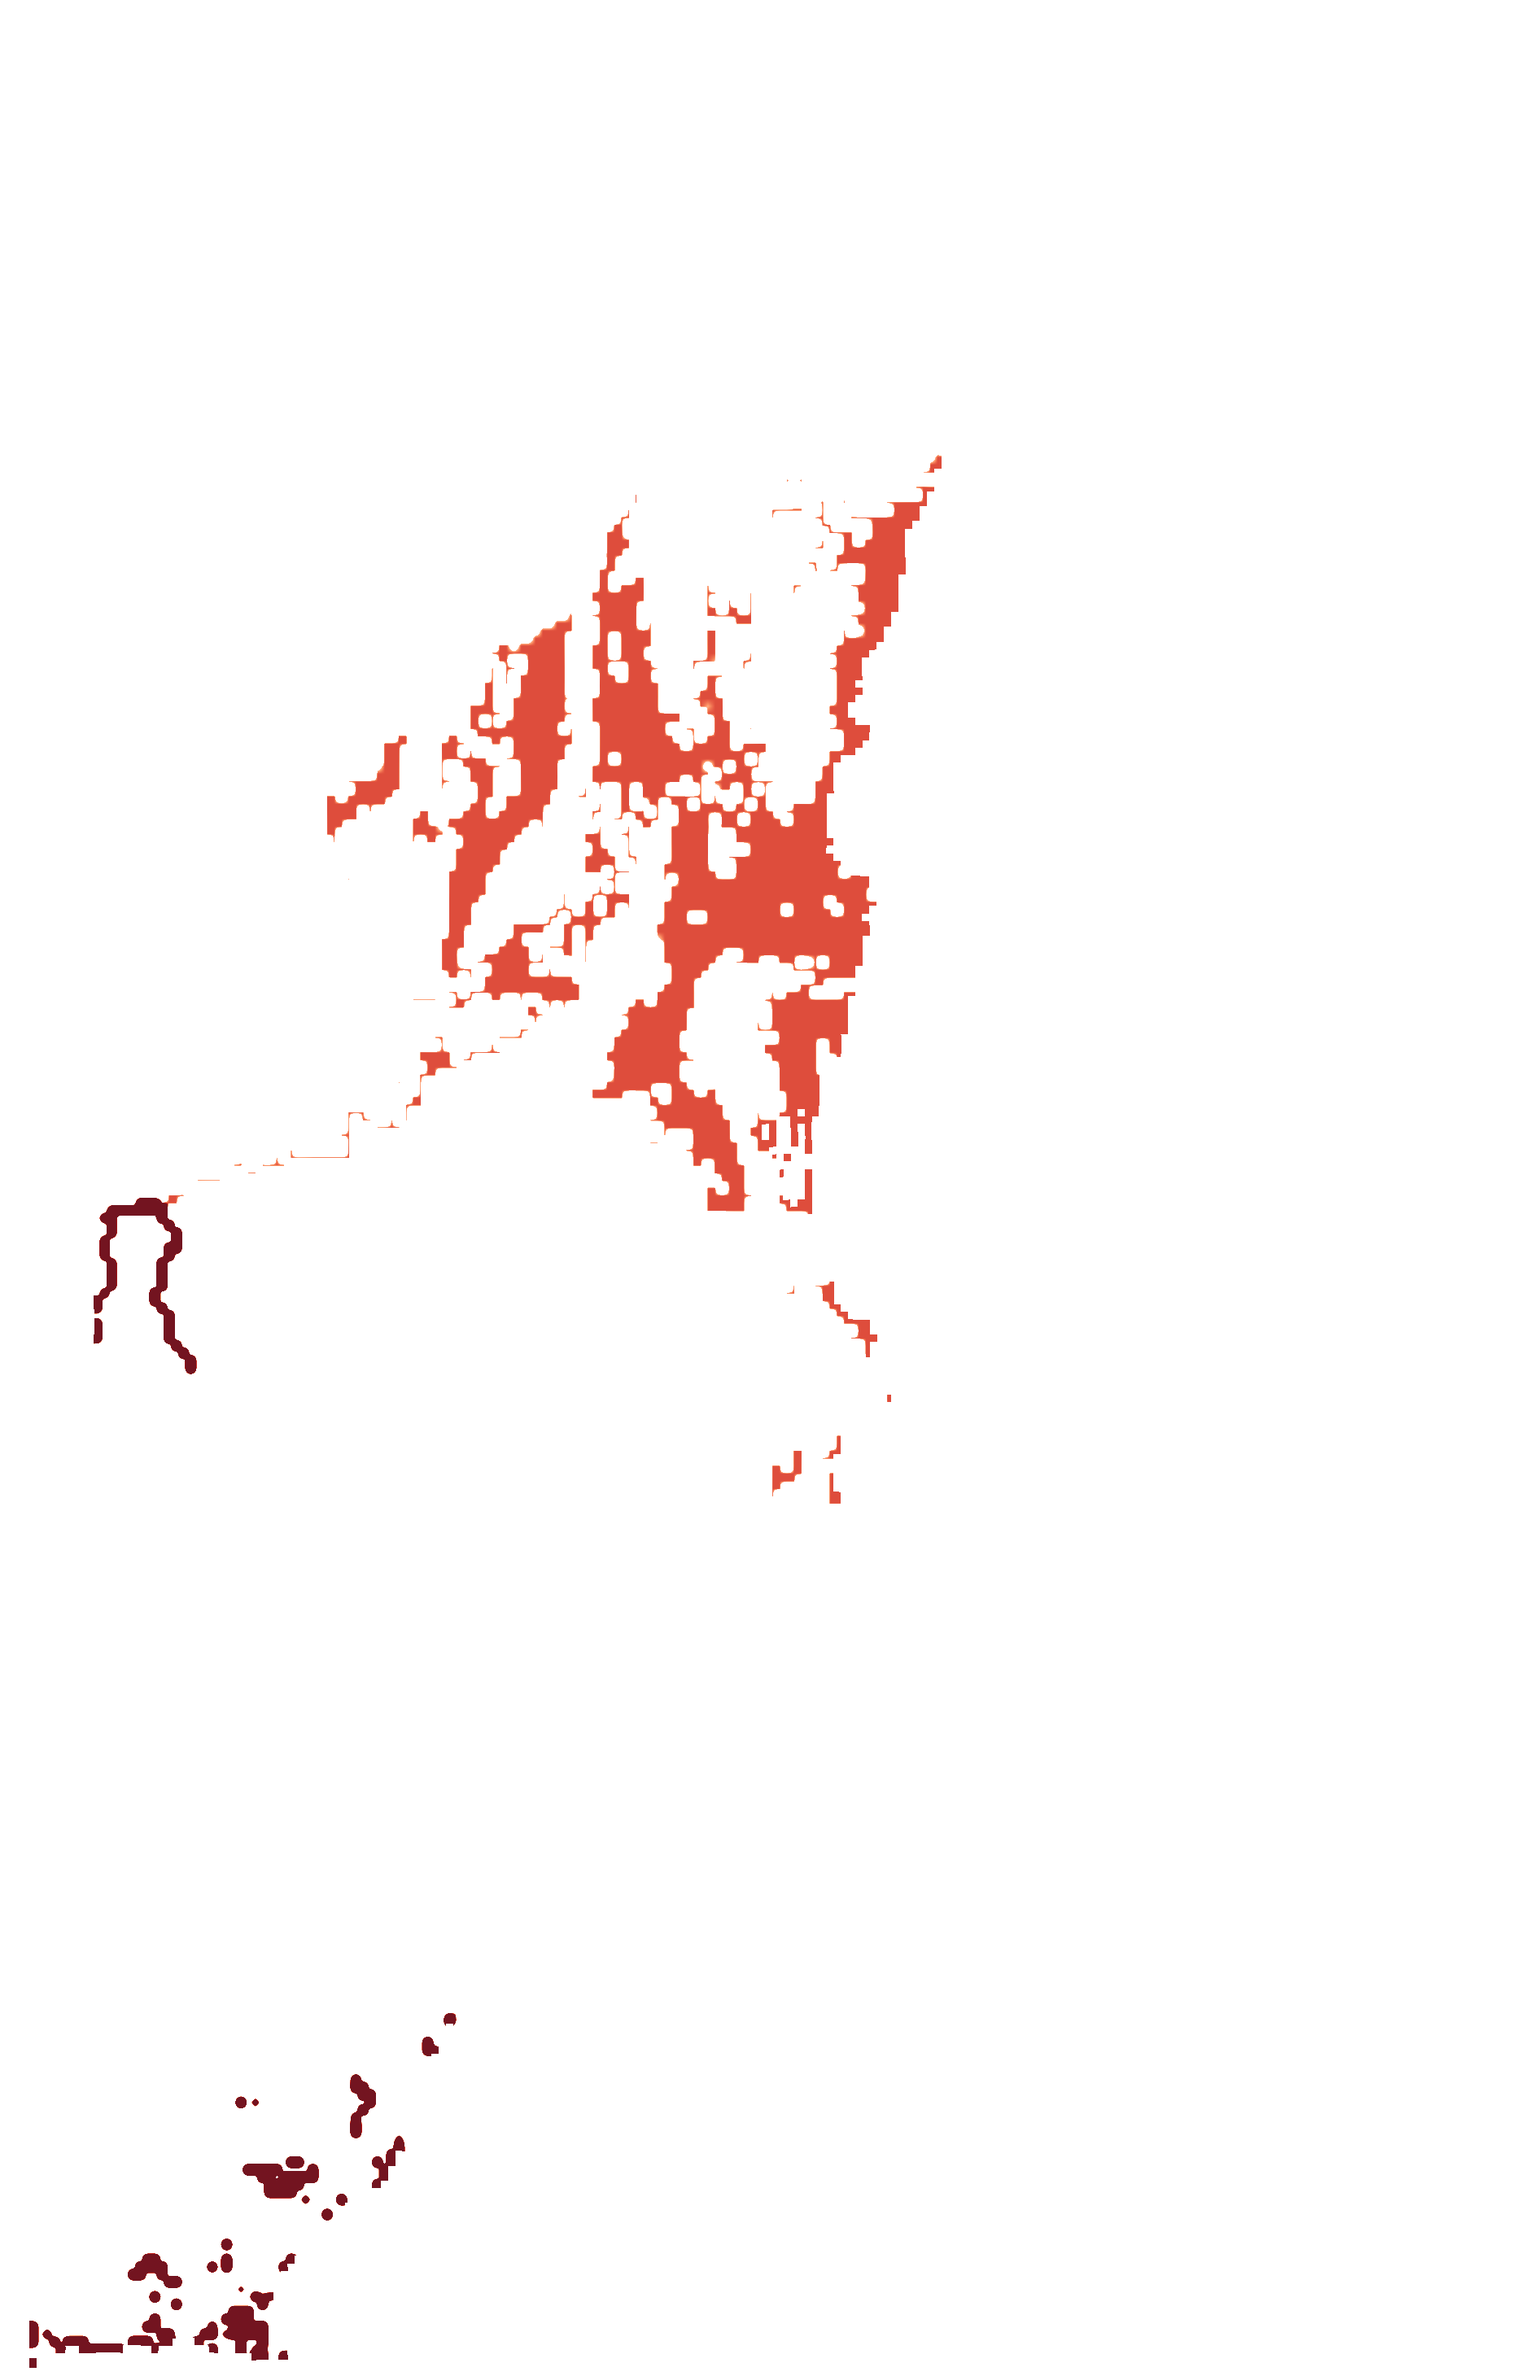
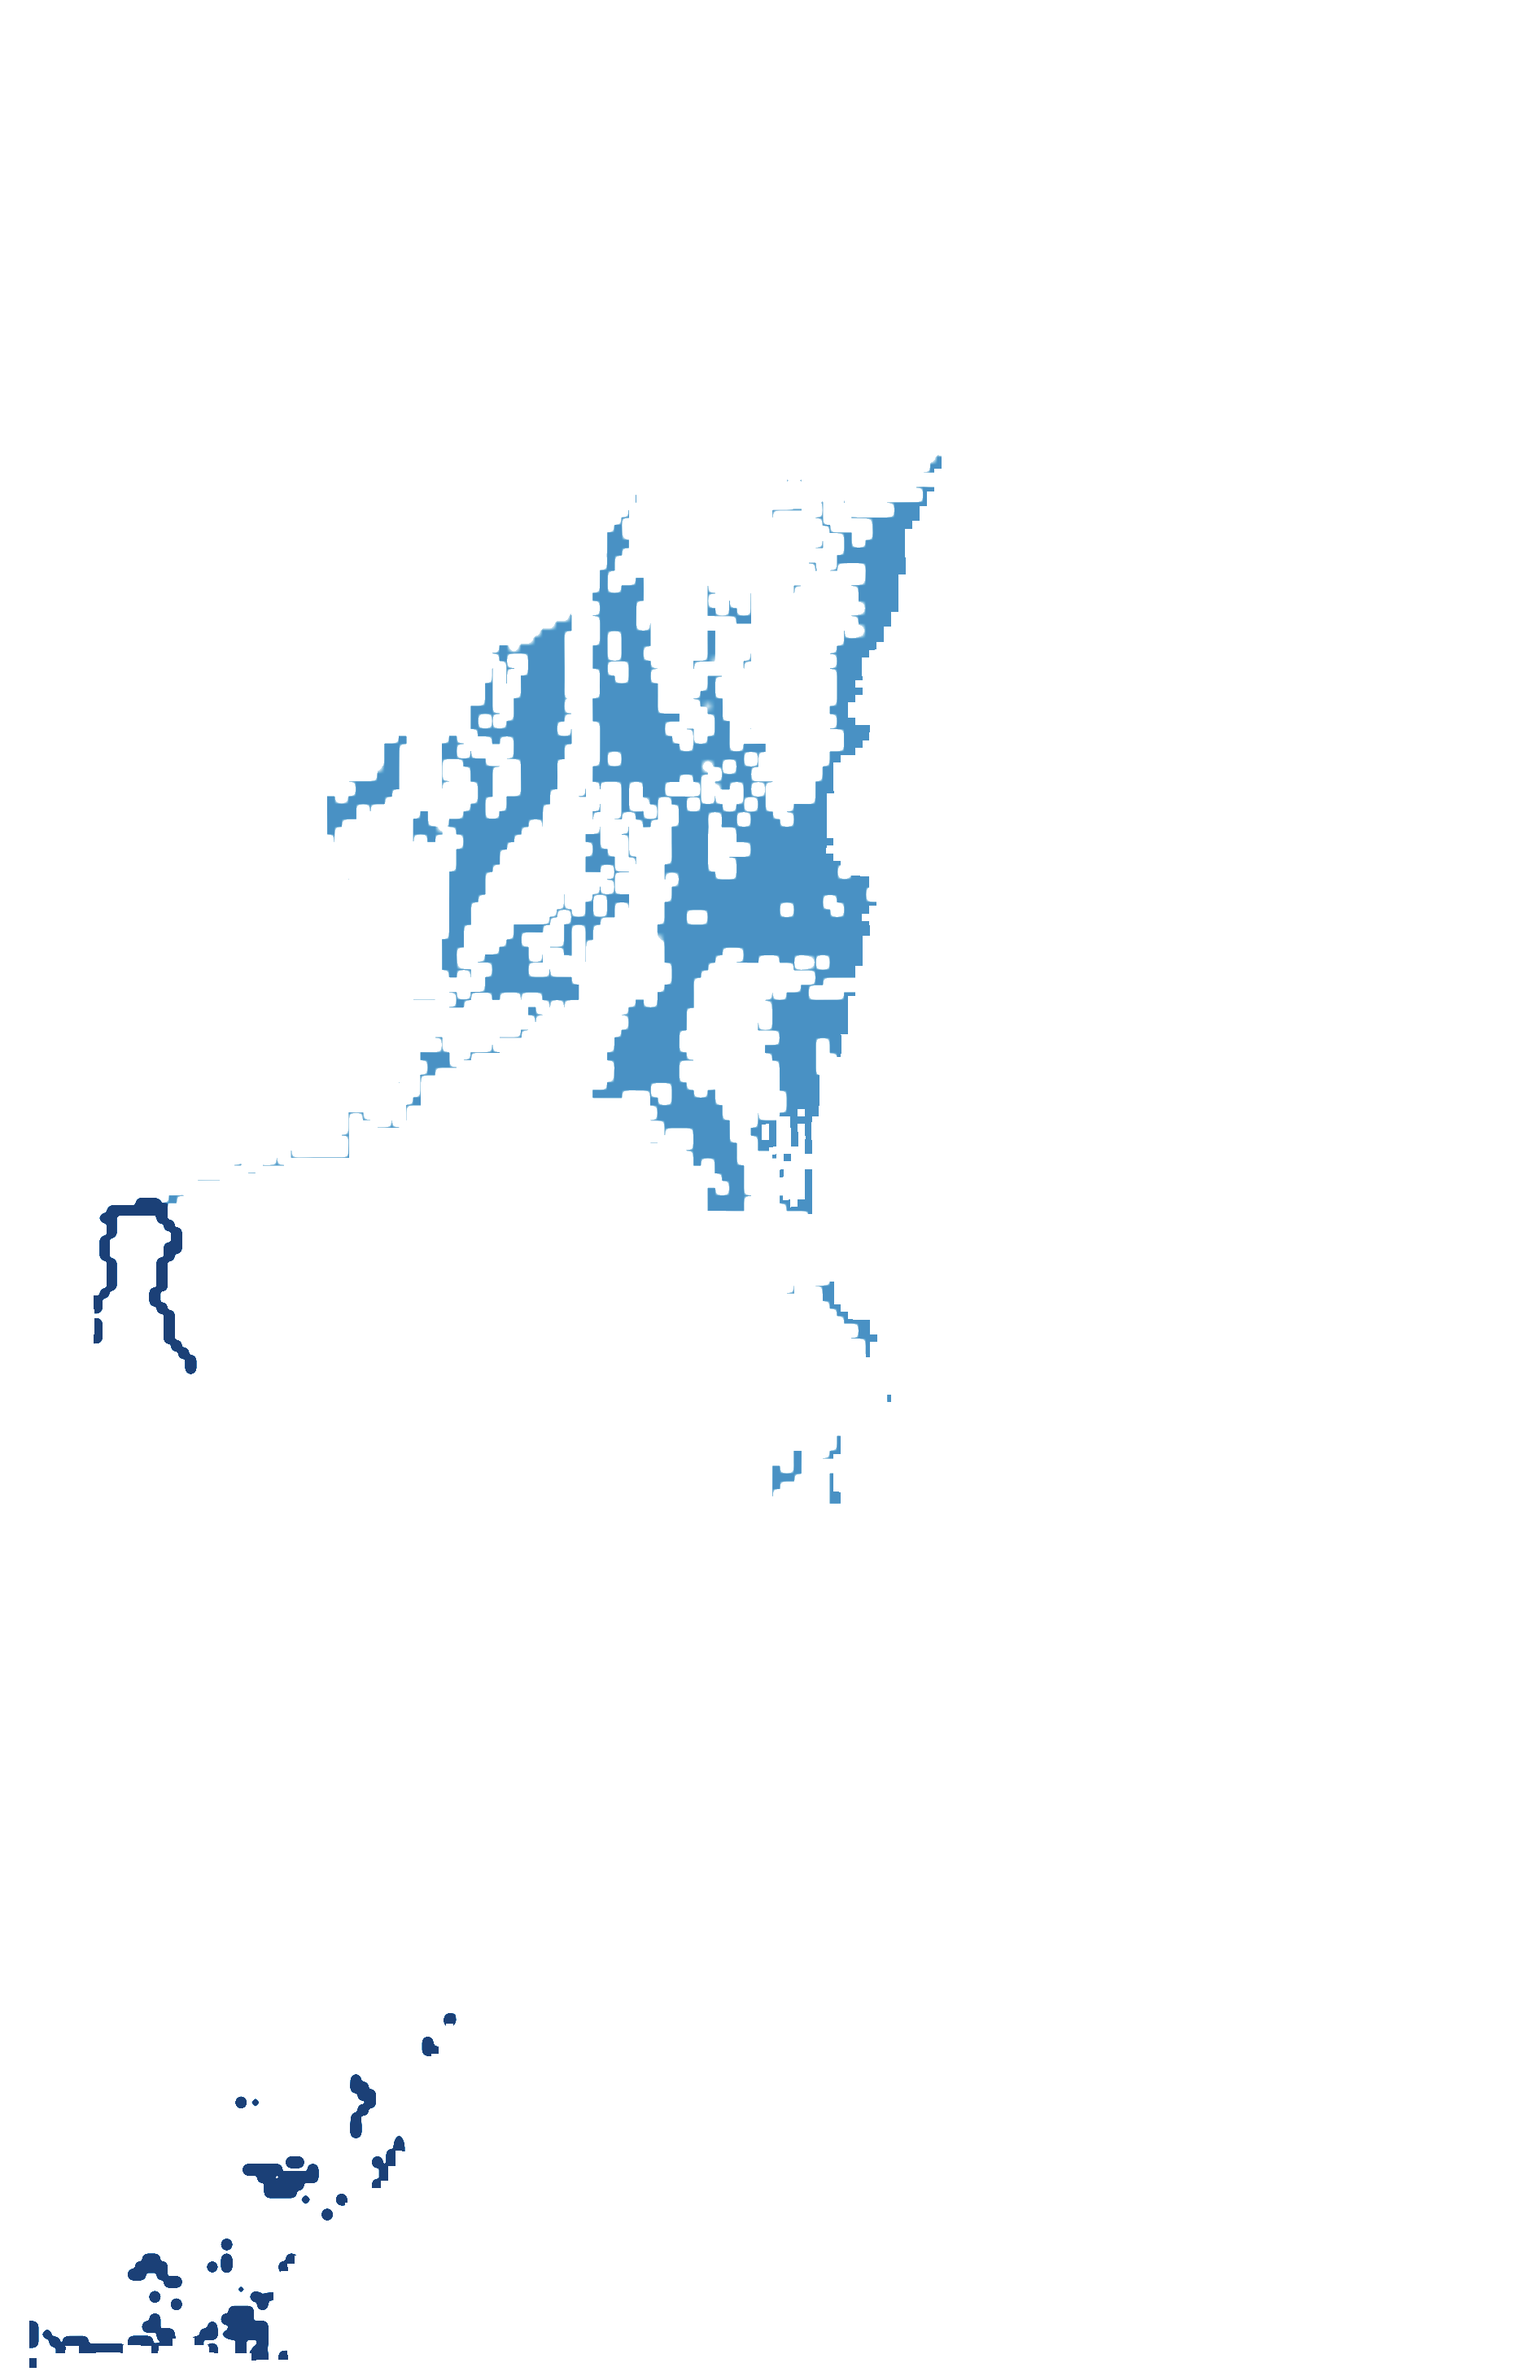
Flood palette -> blues, slower mast ping, taller/brighter population peaks
- Flood severity raster recoloured to a pale->navy blue ramp (+ legend/narrative)
- Ping pulse period roughly doubled for a calmer signal animation
- Population columns: larger radius, higher elevation scale, small-cell floor,
  brighter luminous palette and full opacity for prominence

diff --git a/js/app.js b/js/app.js
@@ -18,8 +18,8 @@ function ramp(stops){ const c = stops.map(hex); return t => {
   const a = c[i], b = c[Math.min(i+1,c.length-1)];
   return [a[0]+(b[0]-a[0])*f, a[1]+(b[1]-a[1])*f, a[2]+(b[2]-a[2])*f];
 };}
-// neutral (population): slate -> pale ice
-const POP_RAMP = ramp(['#2c3a4d','#5a6f86','#9fb2c6','#dfe8f2','#ffffff']);
+// neutral (population): brighter slate -> luminous white for prominent peaks
+const POP_RAMP = ramp(['#5a7290','#8fa8c4','#c3d6ea','#eef5fc','#ffffff']);
 // red severity (exposed people)
 const RED_RAMP = ramp(['#fdbba0','#fc8a6a','#ef5133','#c3161a','#7c0007']);
 
@@ -41,10 +41,10 @@ const CHAPTERS = [
     no:'02', title:'Where the water goes', layers:['flood'],
     cam:{ pitch:40, bearing:-8, zoom:8.3 },
     narr:`Modelled riverine flooding for a 1-in-100-year event (WRI Aqueduct).
-      Deeper, darker reds mean more severe inundation — the river valleys and the
+      Deeper, darker blues mean more severe inundation — the river valleys and the
       low coastal plain take the worst of it.
-      <span class="big">≥ 0.15 m</span><span class="sub">flood depth shown · fading reds scale with severity</span>`,
-    legend:{type:'grad', colors:['#fcbba1','#67000d'], labels:['shallow','severe'], ttl:'Flood depth / severity'}
+      <span class="big">≥ 0.15 m</span><span class="sub">flood depth shown · fading blues scale with severity</span>`,
+    legend:{type:'grad', colors:['#d6e6f4','#08306b'], labels:['shallow','severe'], ttl:'Flood depth / severity'}
   },
   {
     no:'03', title:'People in the water', layers:['flood','exposed'],
@@ -83,11 +83,11 @@ function buildLayers(){
   }
   if(vis.has('pop') && DATA.pop){
     const m = meta.population.max;
-    L.push(new ColumnLayer({ id:'pop', data:DATA.pop, diskResolution:6, radius:460, extruded:true,
-      elevationScale:2.2, radiusUnits:'meters',
-      getPosition:d=>[d[0],d[1]], getElevation:d=>d[2],
-      getFillColor:d=>{ const c=POP_RAMP(Math.sqrt(d[2]/m)); return [c[0],c[1],c[2],235]; },
-      material:{ambient:.6,diffuse:.6,shininess:20,specularColor:[255,255,255]} }));
+    L.push(new ColumnLayer({ id:'pop', data:DATA.pop, diskResolution:12, radius:540, extruded:true,
+      elevationScale:4.2, radiusUnits:'meters',
+      getPosition:d=>[d[0],d[1]], getElevation:d=>d[2]+60,   // +60 floor so small cells still read
+      getFillColor:d=>{ const c=POP_RAMP(Math.pow(d[2]/m, 0.4)); return [c[0],c[1],c[2],255]; },
+      material:{ambient:.7,diffuse:.65,shininess:24,specularColor:[255,255,255]} }));
   }
   if(vis.has('exposed') && DATA.exp){
     const m = meta.exposed.max;
@@ -100,7 +100,7 @@ function buildLayers(){
   if(vis.has('ping') && DATA.masts){
     // three expanding rings, phase-offset, for a continuous pulse
     for(let k=0;k<3;k++){
-      const prog = ((time/2600) + k/3) % 1;             // 0..1
+      const prog = ((time/5200) + k/3) % 1;             // 0..1 (slower pulse)
       L.push(new ScatterplotLayer({ id:'ping'+k, data:DATA.masts,
         stroked:true, filled:false, radiusUnits:'meters',
         getPosition:d=>d, getRadius:prog*5000, lineWidthMinPixels:1.5,

diff --git a/tools/make_story_data.py b/tools/make_story_data.py
@@ -55,8 +55,8 @@ def red_overlay(path, out_png, pct=96):
         b = transform_bounds(dst, "EPSG:4326", *rasterio.transform.array_bounds(h, w, tr))
     valid = np.isfinite(data) & (data > 0.15)         # >=15 cm depth
     vmax = np.nanpercentile(data[valid], pct) if valid.any() else 1
-    # fully red severity ramp: light red (shallow) -> dark crimson (severe)
-    reds = LinearSegmentedColormap.from_list("sev", ["#fcbba1", "#fc8d59", "#e34a33", "#b30000", "#67000d"])
+    # blue severity ramp: pale blue (shallow) -> deep navy (severe)
+    reds = LinearSegmentedColormap.from_list("sev", ["#d6e6f4", "#9ecae1", "#4292c6", "#08519c", "#08306b"])
     rgba = np.zeros((data.shape[0], data.shape[1], 4), dtype="uint8")
     if valid.any():
         normed = PowerNorm(0.7, vmin=0.15, vmax=vmax)(np.ma.masked_array(data, ~valid))
